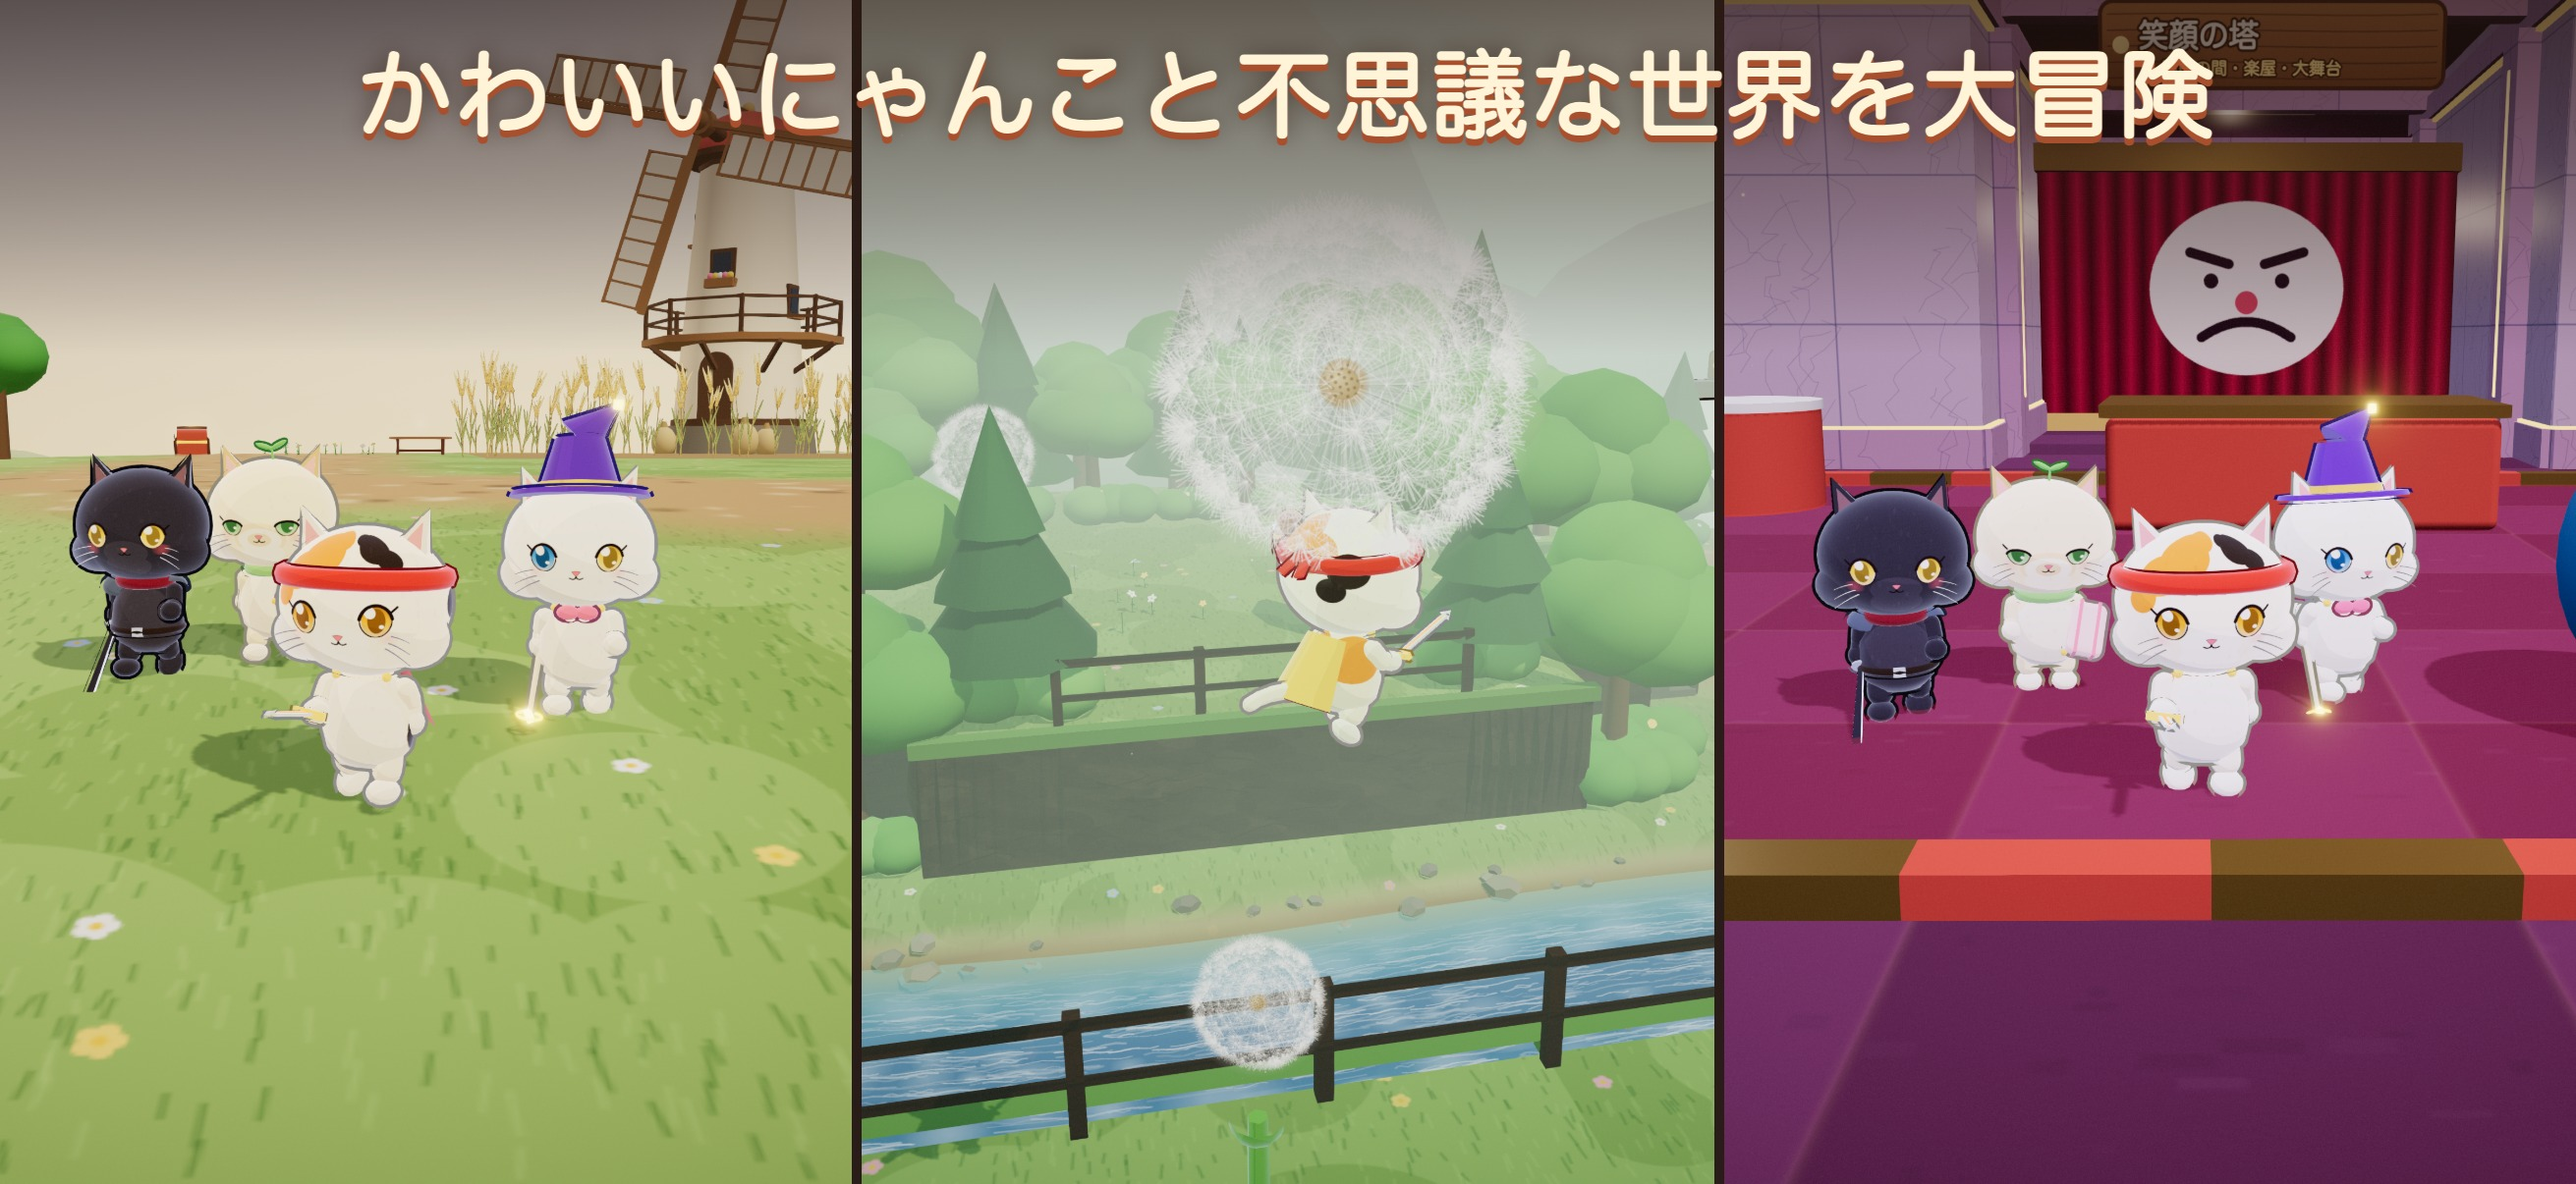
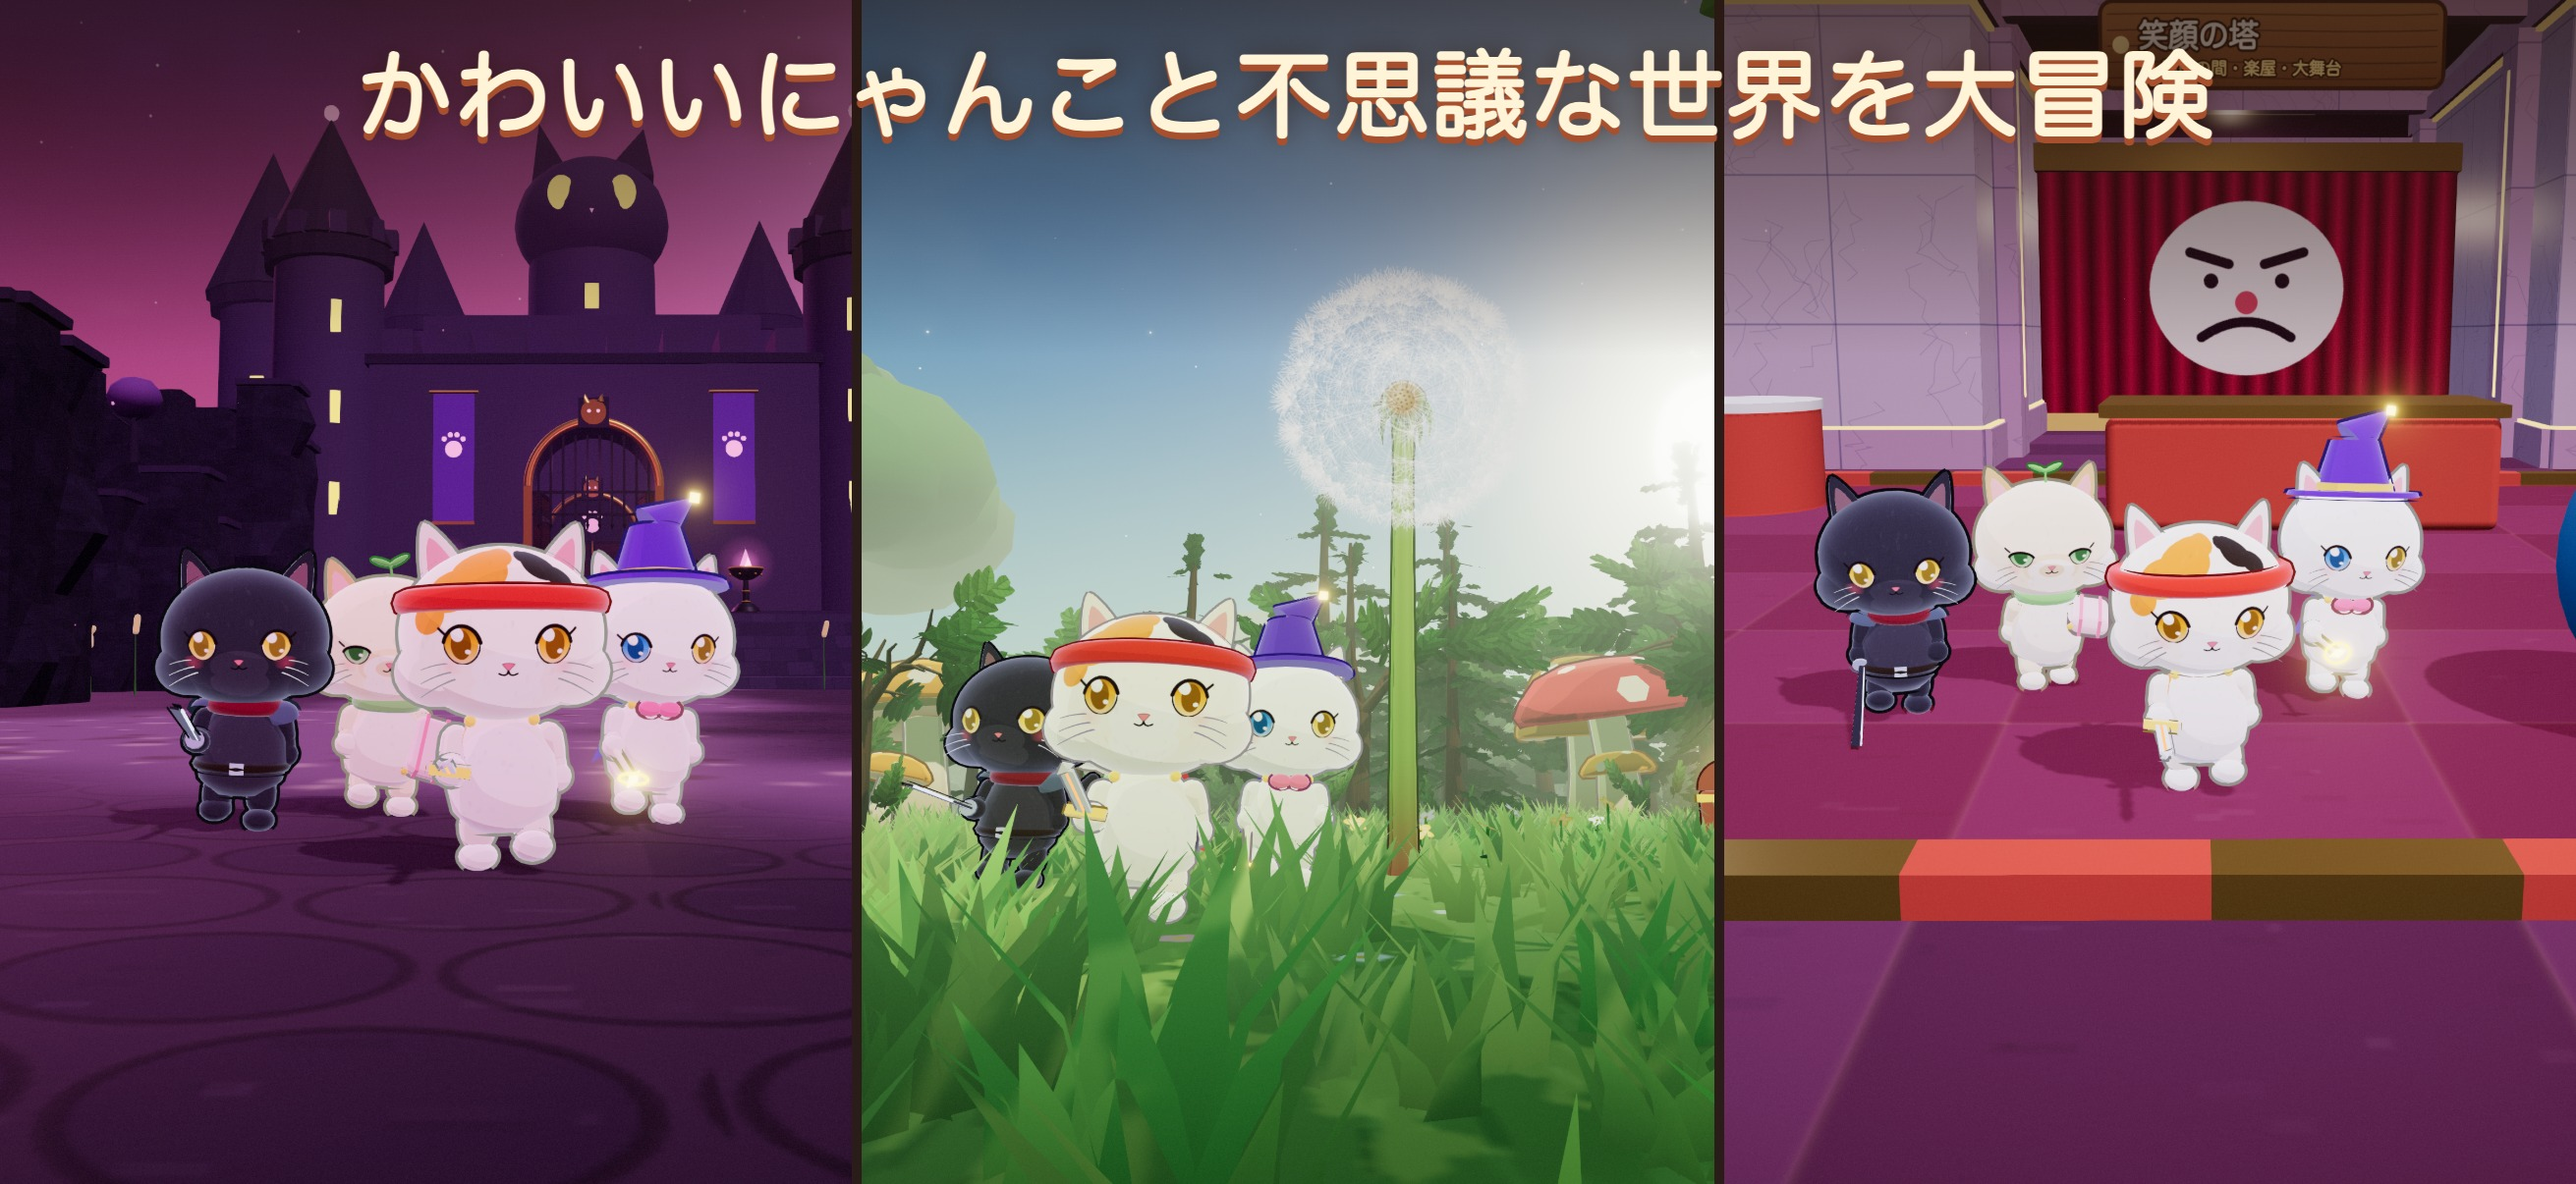
feat: ストアのスクショの仲間紹介と冒険の場面を作り直す
- 05-friends：見出しと会話ウィンドウをなくし、4 匹それぞれの紹介文を入れる（魚の話はミケだけ）
- 02-field：風車を、猫の頭の大塔が見える魔王城の外観に。まどろみの林は、大樹のうろで綿毛のたんぽぽときのこを地面から見上げる構図に
- store-compose に ONLY（作る絵をしぼる）と、2×2 のコマごとの紹介文を足す

diff --git a/ios/AppStore.md b/ios/AppStore.md
@@ -192,10 +192,10 @@ iPhone 6.9 インチ（横 2868×1320）を 3〜10 枚。`ios/screenshots/` の 
 | ファイル | 中身 | 見出し |
 | --- | --- | --- |
 | 01-combo | 古代遺跡・外庭で、ミケとクロのコンボ技「にゃんこブレイク」の二つの斬撃が、石のねこ像の前で X に重なったところ | 仲間とのコンボ技 |
-| 02-field | 冒険の 3 か所を縦に 3 つ並べる：ミャオ街道で、丘の風車と麦畑を背にこちらへ歩いてくる 4 匹、まどろみの林で綿毛につかまってねむり川を越えるところ（後ろから）、笑顔の塔 1F の大ロビーで、むすっと幕の舞台と玉のりの玉を背にこちらへ歩いてくる 4 匹。立ち止まると記念撮影のようになるので、少しななめに歩いているところを撮る。4 匹は左からクロ・タマ・ミケ・シロに横へ広げて並べる（ふだんの並びではタマがミケの真後ろに隠れる）。地名・目的・仲間の顔のアイコンと、目的地の光の柱・距離の札は隠す | かわいいにゃんこと不思議な世界を大冒険 |
+| 02-field | 冒険の 3 か所を縦に 3 つ並べる：魔王領の南の広場で、城門と猫の頭の形の魔王城の大塔（耳と光る目）を背にこちらへ歩いてくる 4 匹（低いカメラで少し見上げ、大塔の顔を見出しより下に）、まどろみの林・大樹のうろの東の高台を地面すれすれから見上げた、綿毛のたんぽぽと赤いきのこのそばを歩いてくる 4 匹（画角を広げて綿毛ときのこを列に入れる）、笑顔の塔 1F の大ロビーで、むすっと幕の舞台と玉のりの玉を背にこちらへ歩いてくる 4 匹。立ち止まると記念撮影のようになるので、少しななめに歩いているところを撮る。4 匹は左からクロ・タマ・ミケ・シロに横へ広げて並べる（ふだんの並びではタマがミケの真後ろに隠れる）。地名・目的・仲間の顔のアイコンと、目的地の光の柱・距離の札は隠す | かわいいにゃんこと不思議な世界を大冒険 |
 | 03-yoroi | くろねこ谷で、ミケの番に「勇者のつるぎ」でさまよう鎧を狙うコマンド選択（下の仲間・技のボタンを切らないよう、上を切る） | ターン制のコマンドバトル／弱点を狙って有利に導こう（2 行） |
 | 04-fit | おしゃれの 4 匹を縦に 4 つ並べる（ミケ：むぎわら帽子・はっぴ、クロ：シルクハット・タキシード、シロ：ベレー帽・まるメガネ、タマ：ピエロ） | 帽子にマントに服 おしゃれも楽しい |
-| 05-friends | 会話の 4 匹を 2×2 で 1 枚に。上の段はシロの名のり（第二章「自称・天才魔法使い」）とクロの「……もらう。」（第一章「空から来た黒猫」で魚をもう一匹すすめたとき。照れ顔）、下の段はミケの「すっごくおいしかったよ！」（第一章「魚どろぼう」）とタマの「……すぴー……。」（第二章「綿毛の上の子猫」、綿毛のてっぺんで寝ているところを、寄って下から見上げる）。上の段の 2 匹は見出しが重なるので、画面の下寄りに写す | ゆかいでくせの強い仲間たち |
+| 05-friends | 会話の 4 匹を 2×2 で 1 枚に。会話ウィンドウは隠し、セリフの代わりに猫ごとの紹介文を下に入れる（魚の話はミケだけ）。上の段はシロの名のり（第二章「自称・天才魔法使い」）とクロの照れ顔（第一章「空から来た黒猫」で魚をもう一匹すすめたとき）、下の段はミケが両手を挙げる（第一章「魚どろぼう」の「すっごくおいしかったよ！」）とタマが綿毛のてっぺんで寝ているところ（第二章「綿毛の上の子猫」、寄って下から見上げる）。紹介文に顔がかからないよう、猫は画面の上寄りに撮る | なし（紹介文：天才（自称）シロ。／魔法はだいたい予想外。・クールなクロ。／……でも、すぐ照れる。・勇者ミケ。／今日も魚をつまみ食い。・タマは寝てる。／だいたい寝てる。） |
 | 06-title | タイトル。樹とロゴの構図はそのままで、5 匹がふり向いてこちらに顔を向けたところ。表情とポーズで性格を見せる：ミケは笑って手をあげる、クロはむすっとそっぽ、シロは杖をかかげて得意げ、タマはまくらを抱いて立ったまま居眠り、マオウはあごを上げて見くだす（ゲームのタイトルは後ろ姿。「タップして はじめる」と言語ボタンなし） | なし |
 
 見出しはゲームの画面の上に重ねる（ゲームと同じ丸ゴシック。英語版は英語の見出し）。ゲームの画面は枠の横はばいっぱいに広げ（左右に星の帯を残さない）、はみ出す上下を切る。
